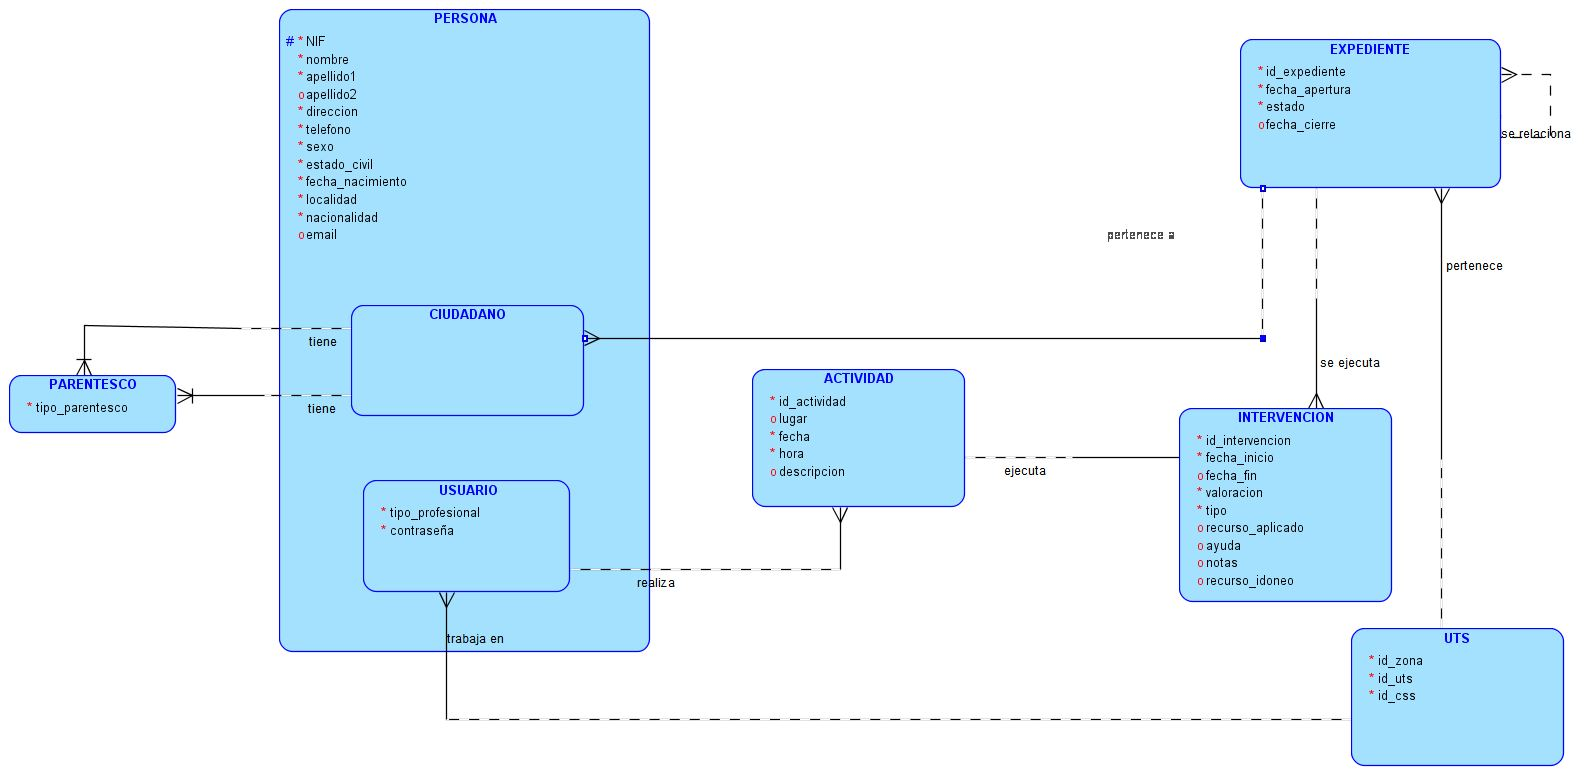
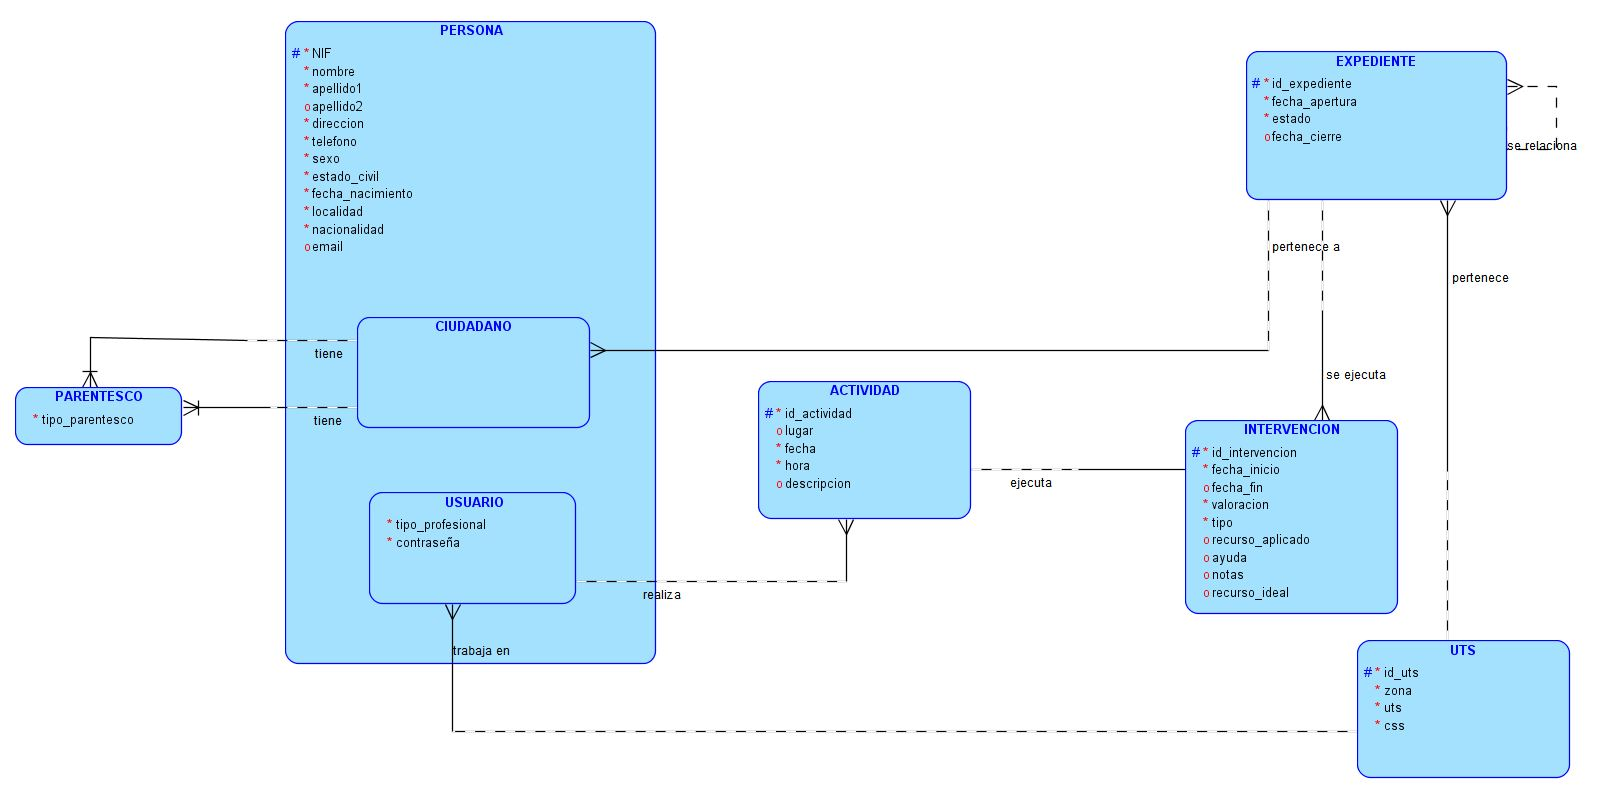
Cambiado atributo en intervencion recurso idoneo por recurso ideal

diff --git a/ServiciosSociales/src/entidades/Actividad.java b/ServiciosSociales/src/entidades/Actividad.java
@@ -17,7 +17,7 @@ public class Actividad implements Serializable {
     @GeneratedValue(strategy = GenerationType.AUTO)
     @Column(name="ID_ACTIVIDAD")
     private Long id;
-    @Column(name="LUGAR", nullable=false, length=50)
+    @Column(name="LUGAR", nullable=true, length=50)
     private String lugar;
     @Column(name="FECHA", nullable=false)
     @Temporal(TemporalType.DATE)
@@ -113,7 +113,9 @@ public class Actividad implements Serializable {
 
     @Override
     public String toString() {
-        return "Actividad{" + "id=" + id + '}';
+        return "Actividad{" + "id=" + id + ", lugar=" + lugar + ", fecha=" + fecha + ", hora=" + hora + ", descripcion=" + descripcion + ", usuario=" + usuario + ", intervencion=" + intervencion + '}';
     }
+
+
 
 }
